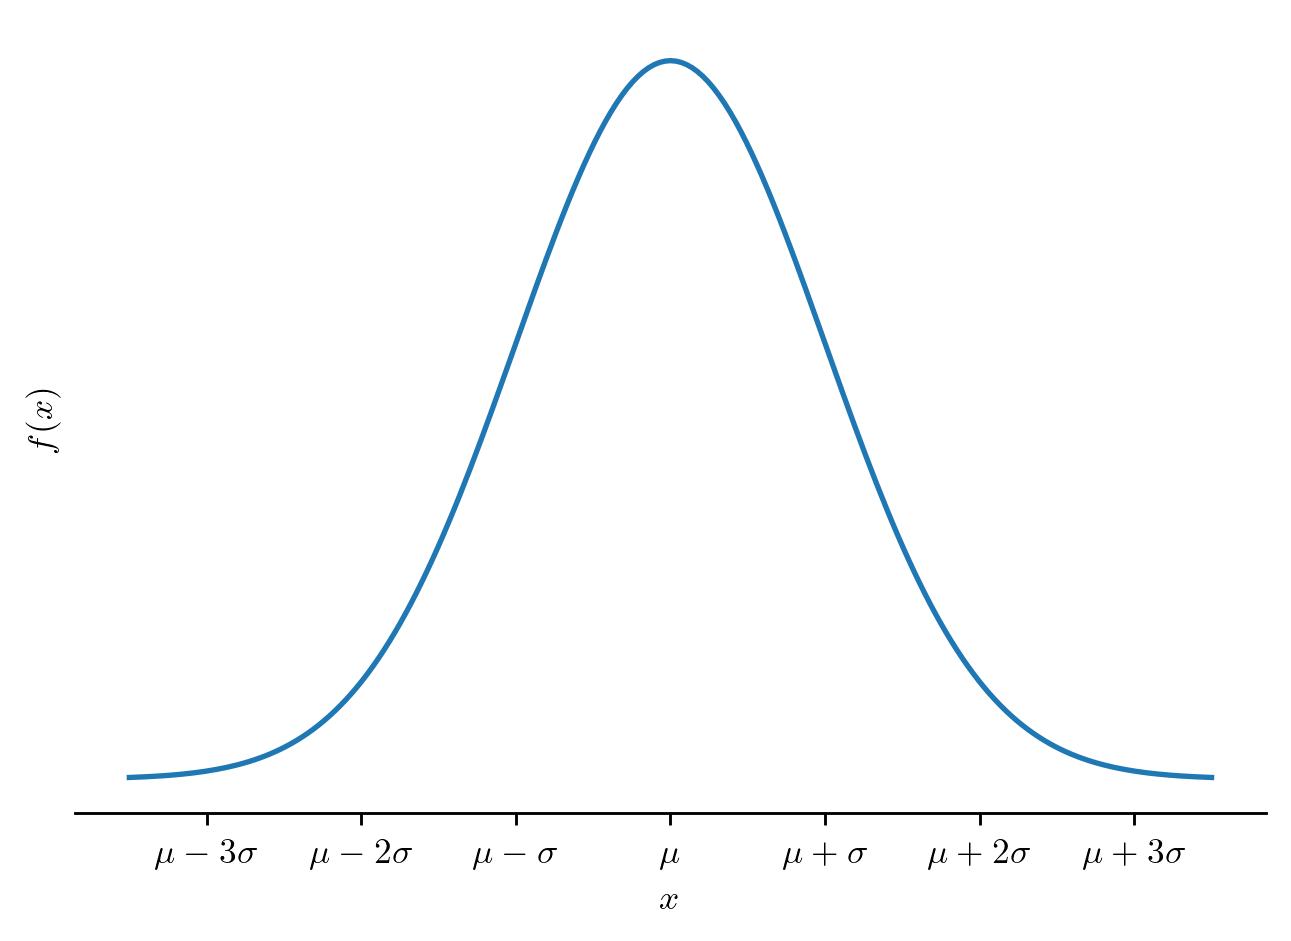
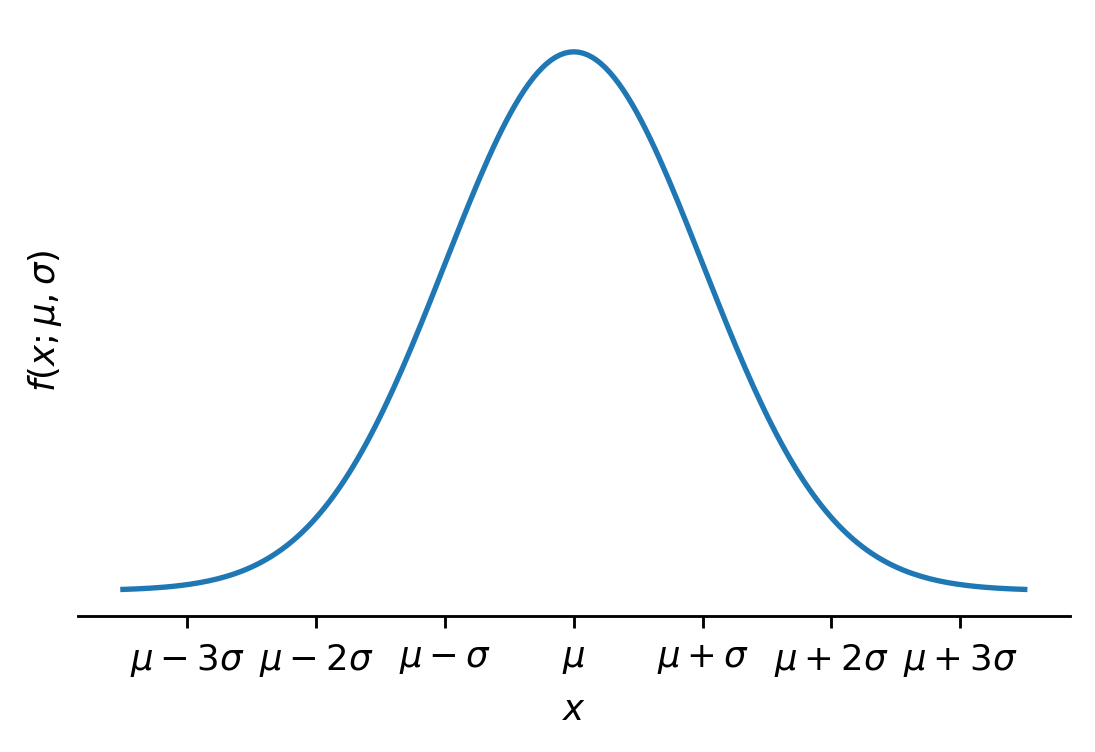
fix issues

diff --git a/statmeth/normal_distribution.html b/statmeth/normal_distribution.html
@@ -527,9 +527,10 @@ window.Quarto = {
 <h2 data-number="13.1" class="anchored" data-anchor-id="probability-density-function"><span class="header-section-number">13.1</span> Probability density function</h2>
 <div id="def-normalpdf" class="theorem definition">
 <p><span class="theorem-title"><strong>Definition 13.1 (Normal distribution probability density function)</strong></span> The normal distribution with location parameter <span class="math inline">\(\mu \in \mathbb{R}\)</span> and scale parameter <span class="math inline">\(\sigma &gt; 0\)</span> has probability density function <span class="math display">\[
-f(x) = \frac{1}{\sqrt{2\pi} \sigma} \exp\Big[-\frac{1}{2}\Big(\frac{x - \mu}{\sigma}\Big)^2\Big]
+f(x;\mu,\sigma) = \frac{1}{\sqrt{2\pi} \sigma} \exp\Big[-\frac{1}{2}\Big(\frac{x - \mu}{\sigma}\Big)^2\Big]
 \]</span> for all <span class="math inline">\(x \in \mathbb{R}\)</span>.</p>
 </div>
+<p>Since the PDF <span class="math inline">\(f\)</span> is function of <span class="math inline">\(x\)</span> which depends upon the values of <span class="math inline">\(\mu\)</span> and <span class="math inline">\(\sigma\)</span>, the above uses the convention of putting <span class="math inline">\(\mu\)</span> and <span class="math inline">\(\sigma\)</span> after a semicolon: <span class="math inline">\(f(x;\mu,\sigma)\)</span>.</p>
 <p>We will write <span class="math inline">\(X \sim \mathcal{N}(\mu,\sigma^2)\)</span> to say that <span class="math inline">\(X\)</span> has the normal distribution with location parameter <span class="math inline">\(\mu\)</span> and scale parameter <span class="math inline">\(\sigma\)</span>. <a href="#fig-normal_musigma" class="quarto-xref">Figure&nbsp;<span>13.1</span></a> shows the bell-shaped curve of the normal distribution PDF. From the plot we see that the PDF is centered at <span class="math inline">\(\mu\)</span> and that as we move away from <span class="math inline">\(\mu\)</span> by multiples of <span class="math inline">\(\sigma\)</span> we capture more and more of the probability under the curve.</p>
 <div id="cell-fig-normal_musigma" class="cell" data-execution_count="1">
 <details class="code-fold">
@@ -540,8 +541,8 @@ f(x) = \frac{1}{\sqrt{2\pi} \sigma} \exp\Big[-\frac{1}{2}\Big(\frac{x - \mu}{\si
 <span id="cb1-4"><a href="#cb1-4" aria-hidden="true" tabindex="-1"></a></span>
 <span id="cb1-5"><a href="#cb1-5" aria-hidden="true" tabindex="-1"></a>plt.rcParams[<span class="st">'figure.dpi'</span>] <span class="op">=</span> <span class="dv">128</span>       </span>
 <span id="cb1-6"><a href="#cb1-6" aria-hidden="true" tabindex="-1"></a>plt.rcParams[<span class="st">'savefig.dpi'</span>] <span class="op">=</span> <span class="dv">128</span></span>
-<span id="cb1-7"><a href="#cb1-7" aria-hidden="true" tabindex="-1"></a>plt.rcParams[<span class="st">'figure.figsize'</span>] <span class="op">=</span> (<span class="dv">6</span>, <span class="dv">4</span>)</span>
-<span id="cb1-8"><a href="#cb1-8" aria-hidden="true" tabindex="-1"></a>plt.rcParams[<span class="st">'text.usetex'</span>] <span class="op">=</span> <span class="va">True</span></span>
+<span id="cb1-7"><a href="#cb1-7" aria-hidden="true" tabindex="-1"></a>plt.rcParams[<span class="st">'figure.figsize'</span>] <span class="op">=</span> (<span class="dv">5</span>, <span class="dv">3</span>)</span>
+<span id="cb1-8"><a href="#cb1-8" aria-hidden="true" tabindex="-1"></a>plt.rcParams[<span class="st">'text.usetex'</span>] <span class="op">=</span> <span class="va">False</span></span>
 <span id="cb1-9"><a href="#cb1-9" aria-hidden="true" tabindex="-1"></a></span>
 <span id="cb1-10"><a href="#cb1-10" aria-hidden="true" tabindex="-1"></a></span>
 <span id="cb1-11"><a href="#cb1-11" aria-hidden="true" tabindex="-1"></a>fig, ax <span class="op">=</span> plt.subplots()</span>
@@ -565,15 +566,15 @@ f(x) = \frac{1}{\sqrt{2\pi} \sigma} \exp\Big[-\frac{1}{2}\Big(\frac{x - \mu}{\si
 <span id="cb1-29"><a href="#cb1-29" aria-hidden="true" tabindex="-1"></a>ax.spines[<span class="st">'top'</span>].set_visible(<span class="va">False</span>)</span>
 <span id="cb1-30"><a href="#cb1-30" aria-hidden="true" tabindex="-1"></a>ax.spines[<span class="st">'left'</span>].set_visible(<span class="va">False</span>)</span>
 <span id="cb1-31"><a href="#cb1-31" aria-hidden="true" tabindex="-1"></a>ax.spines[<span class="st">'right'</span>].set_visible(<span class="va">False</span>)</span>
-<span id="cb1-32"><a href="#cb1-32" aria-hidden="true" tabindex="-1"></a>ax.set_ylabel(<span class="st">'$f(x)$'</span>)</span>
-<span id="cb1-33"><a href="#cb1-33" aria-hidden="true" tabindex="-1"></a>ax.set_xlabel(<span class="st">'$x$'</span>)</span>
+<span id="cb1-32"><a href="#cb1-32" aria-hidden="true" tabindex="-1"></a>ax.set_ylabel(<span class="vs">r'</span><span class="dv">$</span><span class="vs">f</span><span class="kw">(</span><span class="vs">x;</span><span class="dv">\m</span><span class="vs">u,</span><span class="dv">\s</span><span class="vs">igma</span><span class="kw">)</span><span class="dv">$</span><span class="vs">'</span>)</span>
+<span id="cb1-33"><a href="#cb1-33" aria-hidden="true" tabindex="-1"></a>ax.set_xlabel(<span class="vs">r'</span><span class="dv">$</span><span class="vs">x</span><span class="dv">$</span><span class="vs">'</span>)</span>
 <span id="cb1-34"><a href="#cb1-34" aria-hidden="true" tabindex="-1"></a>plt.show()</span></code></pre></div><button title="Copy to Clipboard" class="code-copy-button"><i class="bi"></i></button></div>
 </details>
 <div class="cell-output cell-output-display">
 <div id="fig-normal_musigma" class="quarto-float quarto-figure quarto-figure-center anchored">
 <figure class="quarto-float quarto-float-fig figure">
 <div aria-describedby="fig-normal_musigma-caption-0ceaefa1-69ba-4598-a22c-09a6ac19f8ca">
-<img src="normal_distribution_files/figure-html/fig-normal_musigma-output-1.png" width="645" height="470" class="figure-img">
+<img src="normal_distribution_files/figure-html/fig-normal_musigma-output-1.png" width="547" height="376" class="figure-img">
 </div>
 <figcaption class="quarto-float-caption-bottom quarto-float-caption quarto-float-fig" id="fig-normal_musigma-caption-0ceaefa1-69ba-4598-a22c-09a6ac19f8ca">
 Figure&nbsp;13.1: Probability density function of the <span class="math inline">\(\mathcal{N}(\mu,\sigma^2)\)</span> distribution.
@@ -594,7 +595,7 @@ Figure&nbsp;13.1: Probability density function of the <span class="math inline">
 <div id="cell-fig-normal_severalpdfs" class="cell" data-execution_count="2">
 <details class="code-fold">
 <summary>Code</summary>
-<div class="code-copy-outer-scaffold"><div class="sourceCode cell-code" id="cb2"><pre class="sourceCode python code-with-copy"><code class="sourceCode python"><span id="cb2-1"><a href="#cb2-1" aria-hidden="true" tabindex="-1"></a>fig, ax <span class="op">=</span> plt.subplots()</span>
+<div class="code-copy-outer-scaffold"><div class="sourceCode cell-code" id="cb2"><pre class="sourceCode python code-with-copy"><code class="sourceCode python"><span id="cb2-1"><a href="#cb2-1" aria-hidden="true" tabindex="-1"></a>fig, ax <span class="op">=</span> plt.subplots(figsize<span class="op">=</span>(<span class="dv">6</span>,<span class="dv">4</span>))</span>
 <span id="cb2-2"><a href="#cb2-2" aria-hidden="true" tabindex="-1"></a></span>
 <span id="cb2-3"><a href="#cb2-3" aria-hidden="true" tabindex="-1"></a>x <span class="op">=</span> np.linspace(<span class="op">-</span><span class="fl">5.5</span>,<span class="fl">5.5</span>,<span class="dv">501</span>)</span>
 <span id="cb2-4"><a href="#cb2-4" aria-hidden="true" tabindex="-1"></a>fx <span class="op">=</span> stats.norm.pdf(x,<span class="dv">0</span>,<span class="dv">1</span>)</span>
@@ -612,8 +613,8 @@ Figure&nbsp;13.1: Probability density function of the <span class="math inline">
 <span id="cb2-16"><a href="#cb2-16" aria-hidden="true" tabindex="-1"></a>ax.spines[<span class="st">'top'</span>].set_visible(<span class="va">False</span>)</span>
 <span id="cb2-17"><a href="#cb2-17" aria-hidden="true" tabindex="-1"></a>ax.spines[<span class="st">'left'</span>].set_visible(<span class="va">False</span>)</span>
 <span id="cb2-18"><a href="#cb2-18" aria-hidden="true" tabindex="-1"></a>ax.spines[<span class="st">'right'</span>].set_visible(<span class="va">False</span>)</span>
-<span id="cb2-19"><a href="#cb2-19" aria-hidden="true" tabindex="-1"></a>ax.set_ylabel(<span class="st">'$f(x)$'</span>)</span>
-<span id="cb2-20"><a href="#cb2-20" aria-hidden="true" tabindex="-1"></a>ax.set_xlabel(<span class="st">'$x$'</span>)</span>
+<span id="cb2-19"><a href="#cb2-19" aria-hidden="true" tabindex="-1"></a>ax.set_ylabel(<span class="vs">r'</span><span class="dv">$</span><span class="vs">f</span><span class="kw">(</span><span class="vs">x;</span><span class="dv">\m</span><span class="vs">u,</span><span class="dv">\s</span><span class="vs">igma</span><span class="kw">)</span><span class="dv">$</span><span class="vs">'</span>)</span>
+<span id="cb2-20"><a href="#cb2-20" aria-hidden="true" tabindex="-1"></a>ax.set_xlabel(<span class="vs">r'</span><span class="dv">$</span><span class="vs">x</span><span class="dv">$</span><span class="vs">'</span>)</span>
 <span id="cb2-21"><a href="#cb2-21" aria-hidden="true" tabindex="-1"></a></span>
 <span id="cb2-22"><a href="#cb2-22" aria-hidden="true" tabindex="-1"></a>ax.legend(loc<span class="op">=</span><span class="st">'upper left'</span>,frameon<span class="op">=</span><span class="va">False</span>)</span>
 <span id="cb2-23"><a href="#cb2-23" aria-hidden="true" tabindex="-1"></a>plt.show()</span></code></pre></div><button title="Copy to Clipboard" class="code-copy-button"><i class="bi"></i></button></div>
@@ -622,7 +623,7 @@ Figure&nbsp;13.1: Probability density function of the <span class="math inline">
 <div id="fig-normal_severalpdfs" class="quarto-float quarto-figure quarto-figure-center anchored">
 <figure class="quarto-float quarto-float-fig figure">
 <div aria-describedby="fig-normal_severalpdfs-caption-0ceaefa1-69ba-4598-a22c-09a6ac19f8ca">
-<img src="normal_distribution_files/figure-html/fig-normal_severalpdfs-output-1.png" width="647" height="470" class="figure-img">
+<img src="normal_distribution_files/figure-html/fig-normal_severalpdfs-output-1.png" width="650" height="473" class="figure-img">
 </div>
 <figcaption class="quarto-float-caption-bottom quarto-float-caption quarto-float-fig" id="fig-normal_severalpdfs-caption-0ceaefa1-69ba-4598-a22c-09a6ac19f8ca">
 Figure&nbsp;13.2: Probability density functions of several normal distributions.
